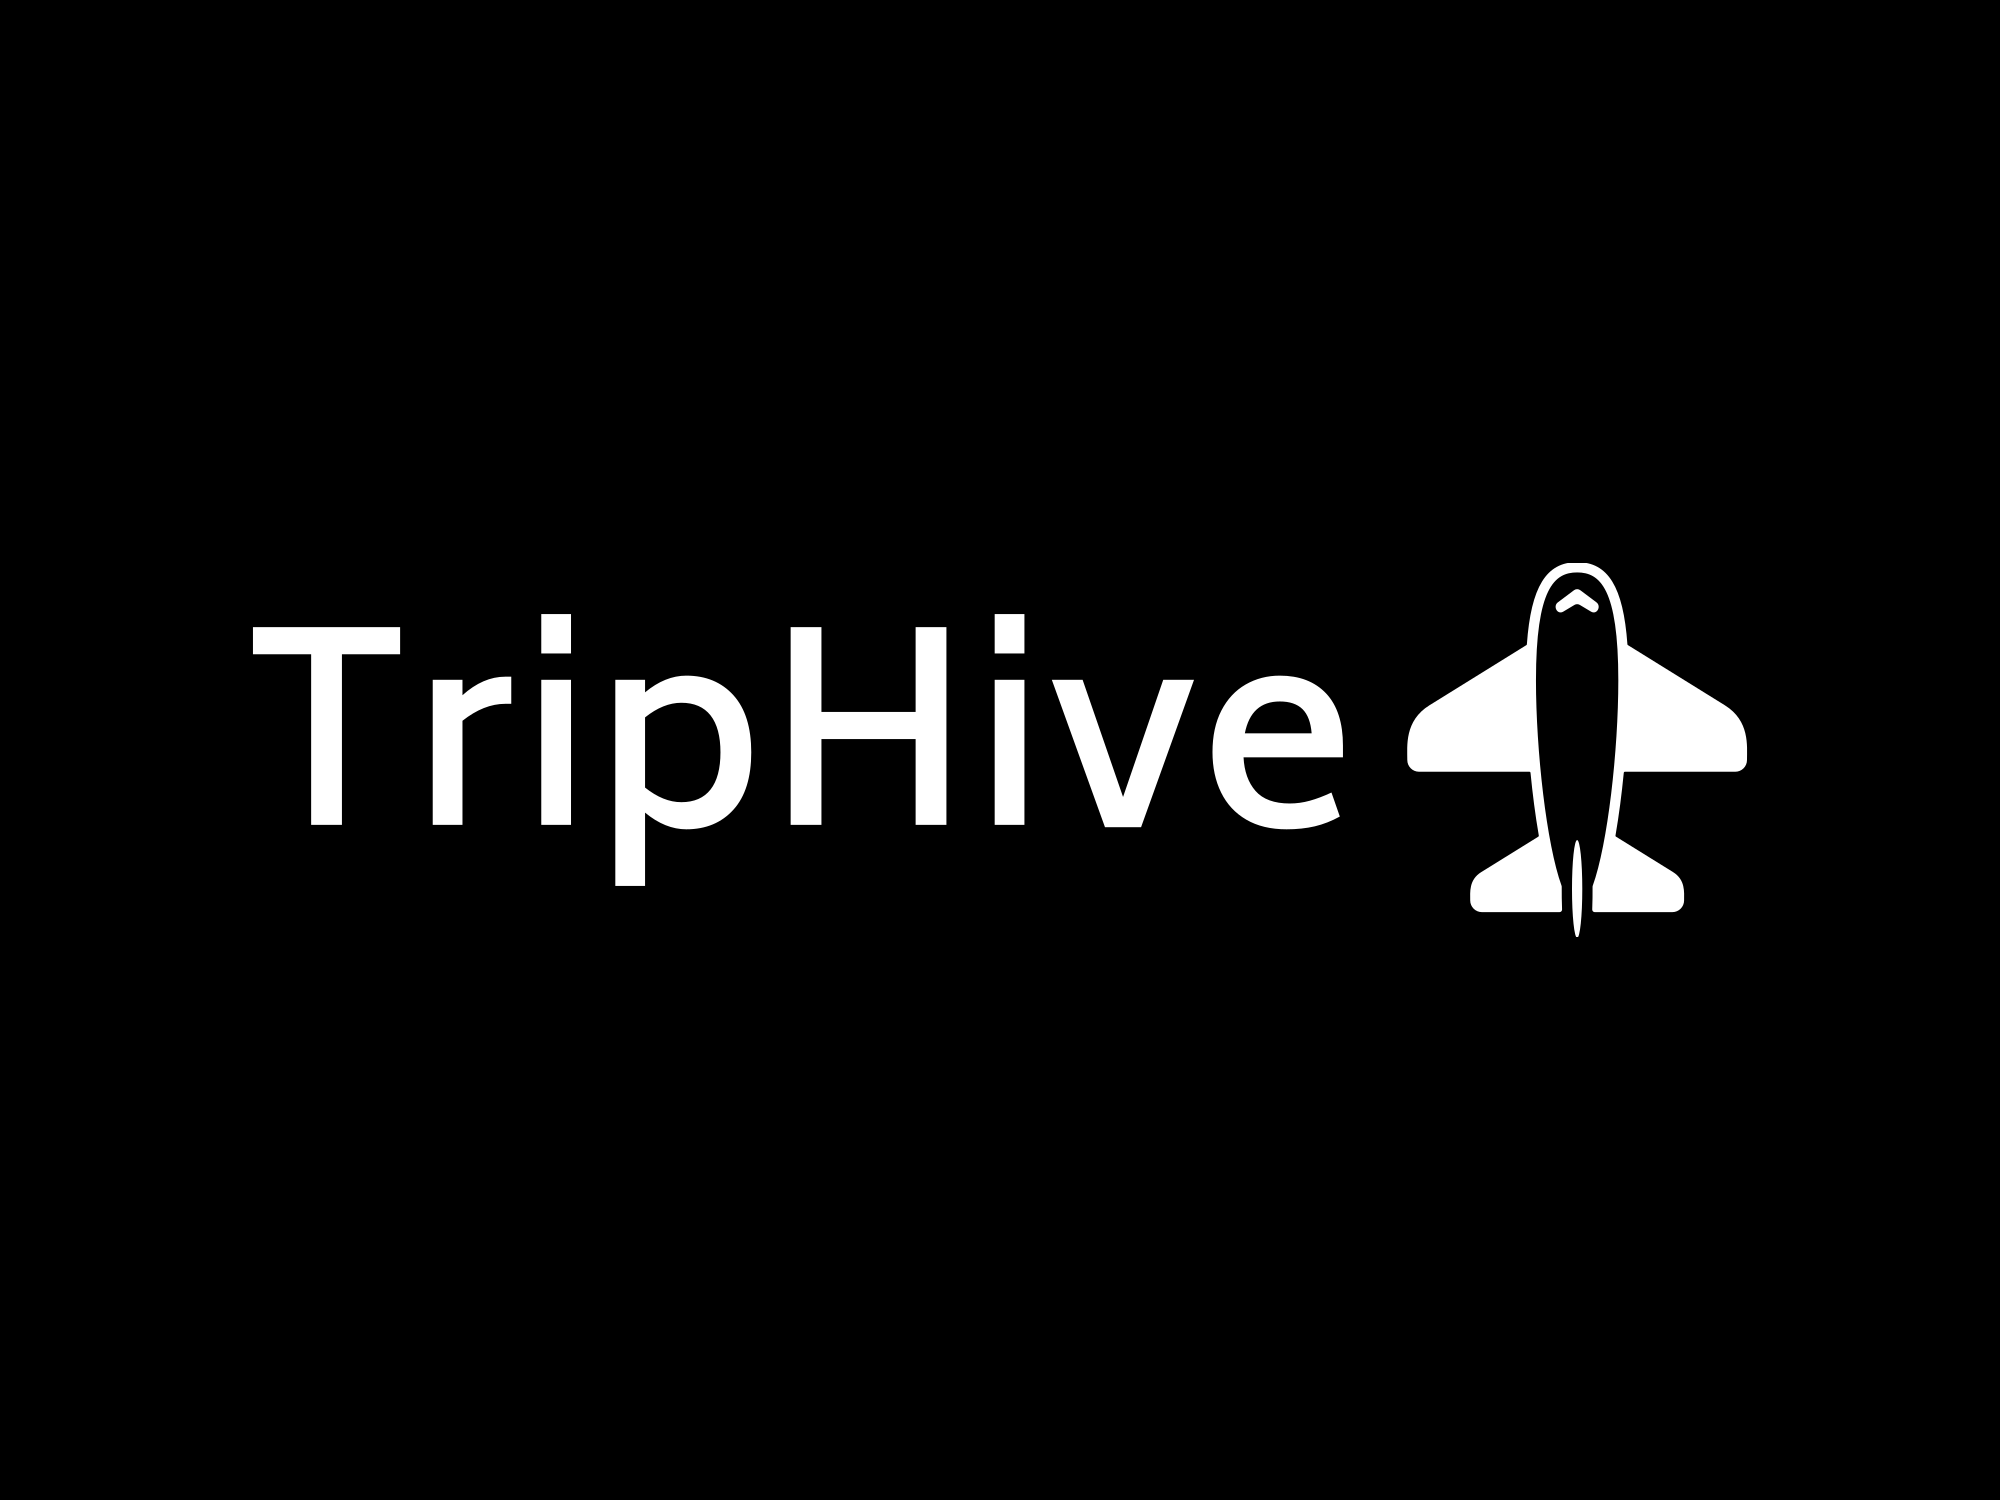
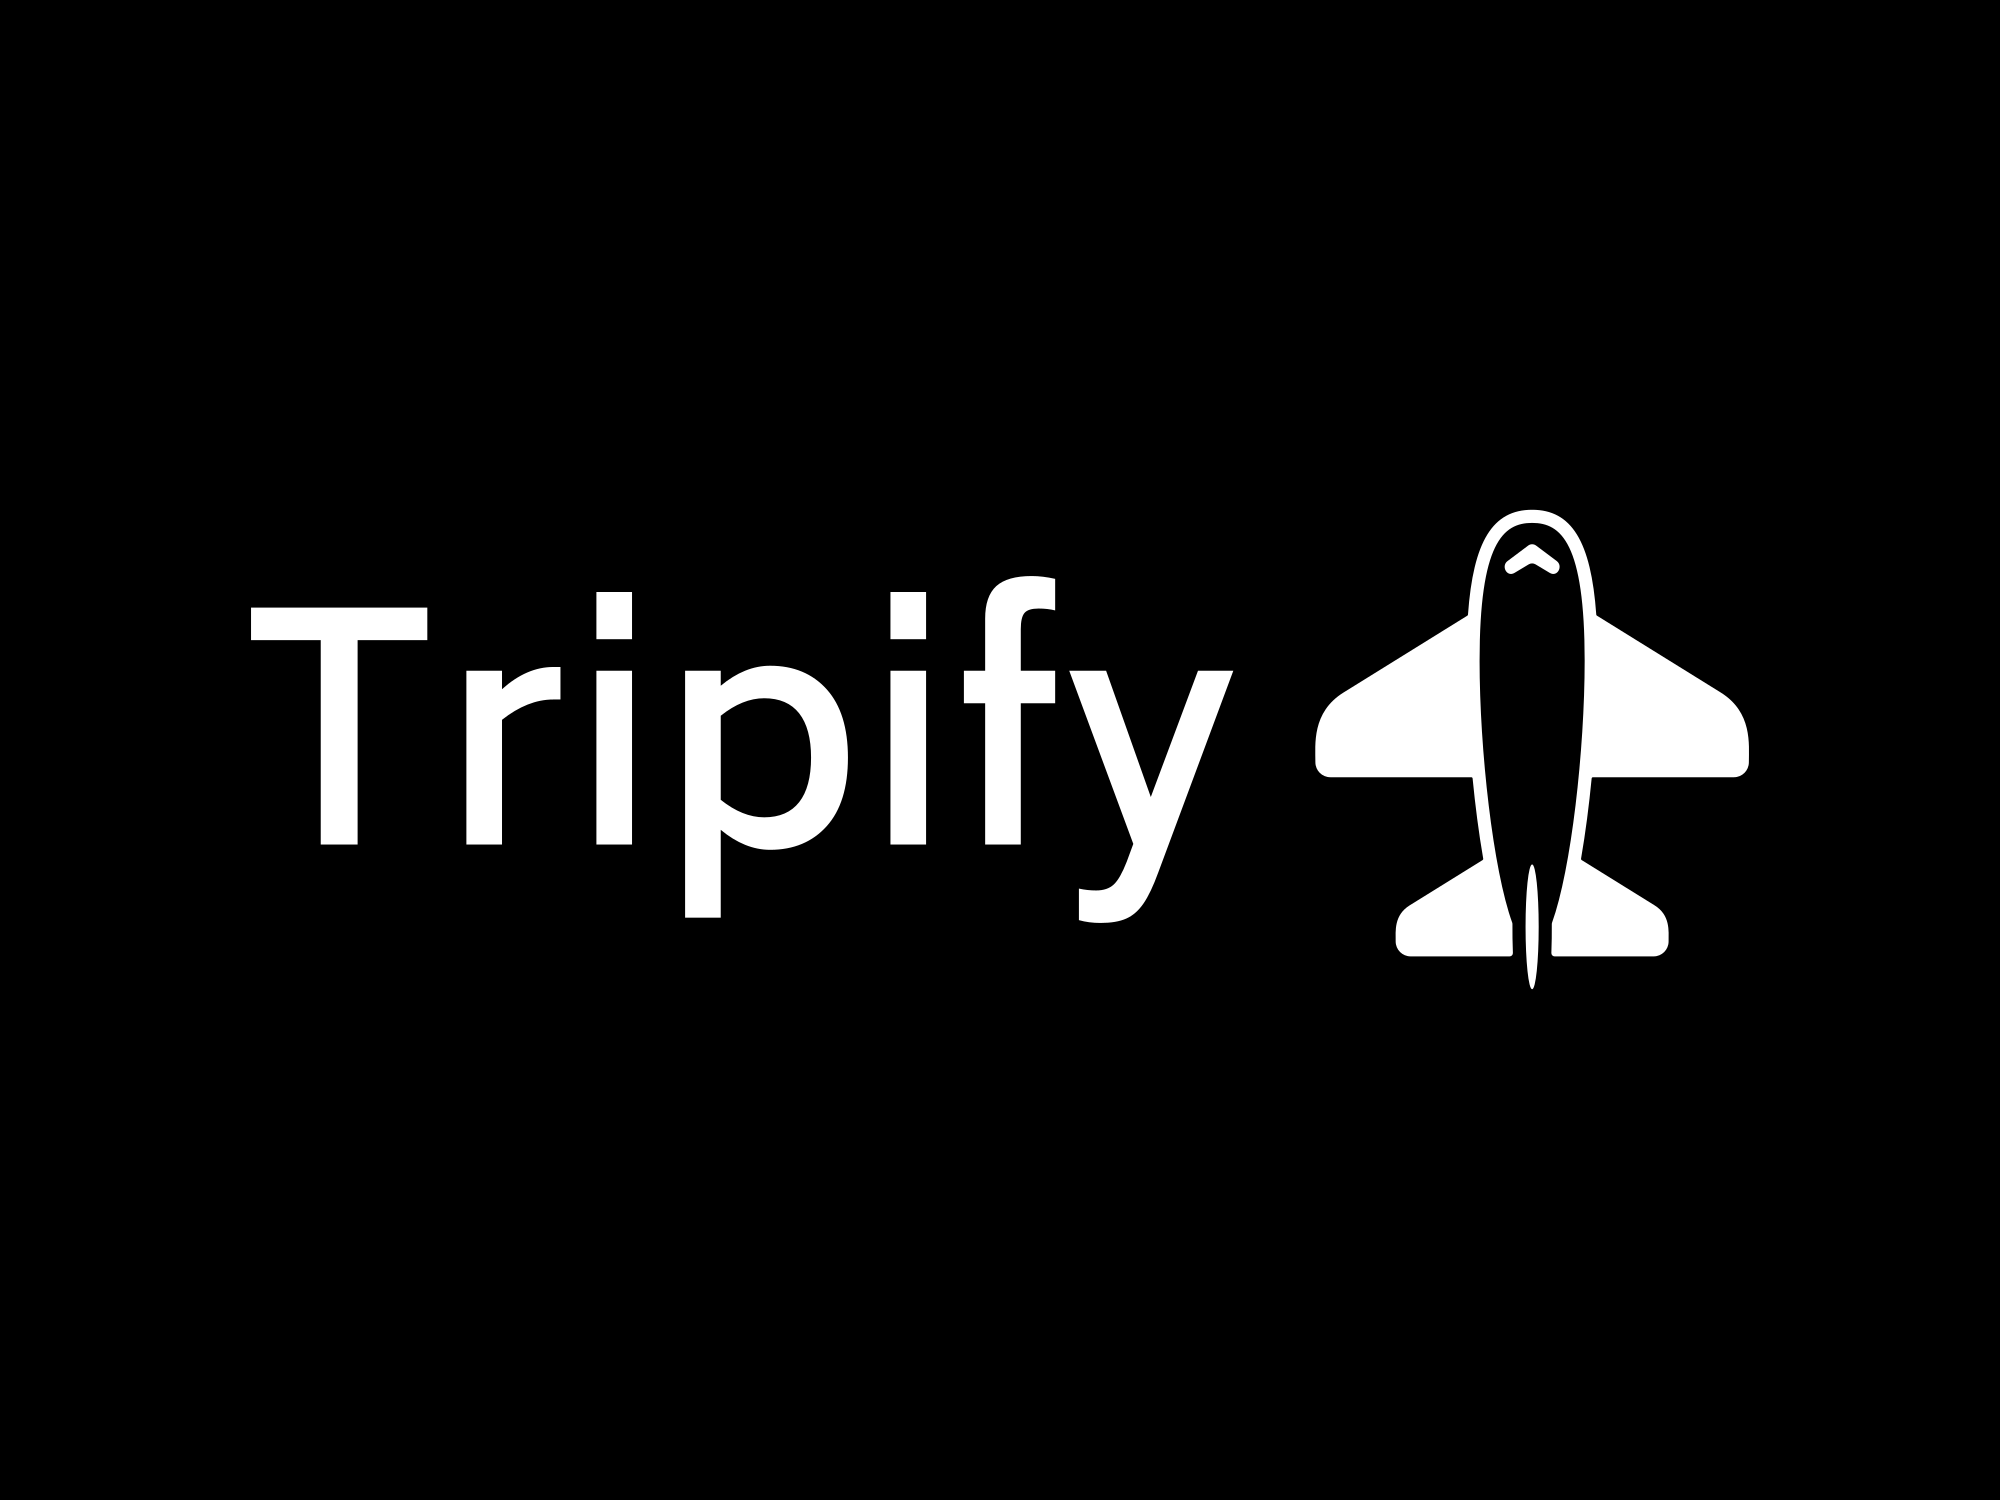
minor changes

Changed region(s): [[0.124, 0.3373, 0.868, 0.644]]

diff --git a/README.md b/README.md
@@ -4,7 +4,13 @@
 
 <!-- logo/title -->
 
-# Tripify
+<br>
+<picture>
+  <source media="(prefers-color-scheme: dark, (width:600px))" srcset="./public/assets/triphive.png">
+  <source media="(prefers-color-scheme: light,(width:600px))" srcset="./public/assets/triphive-black.png">
+  <img src="./public/assets/triphive.png" width="600px" alt="triphive">
+</picture>
+<br>
 
 ### 🏨A hotel review website that allows users to find hotels and leave reviews📝 for them.
 ### 🔁In return user get rewarded 🪙 for their valuable reviews✅.
